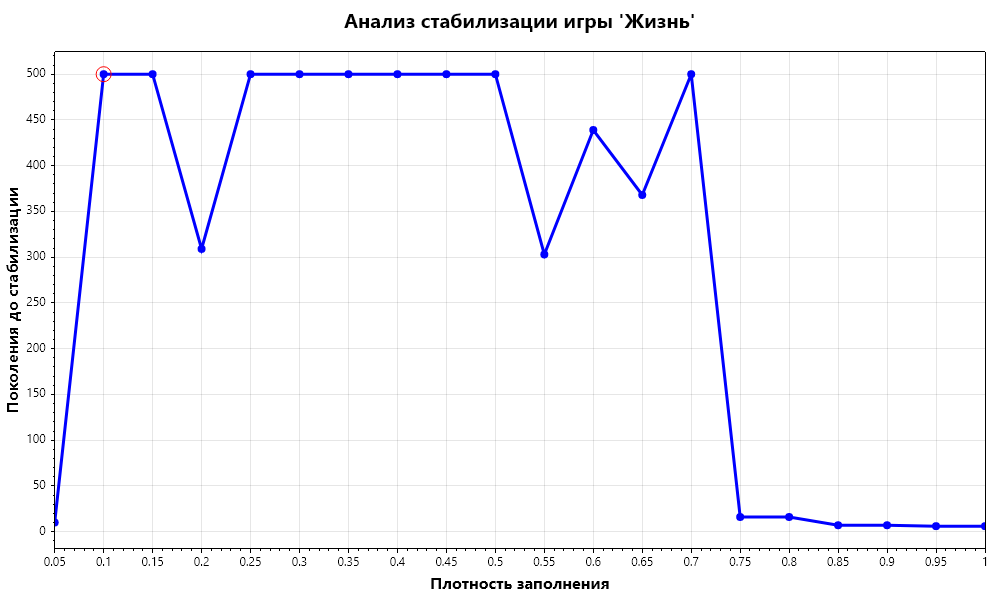
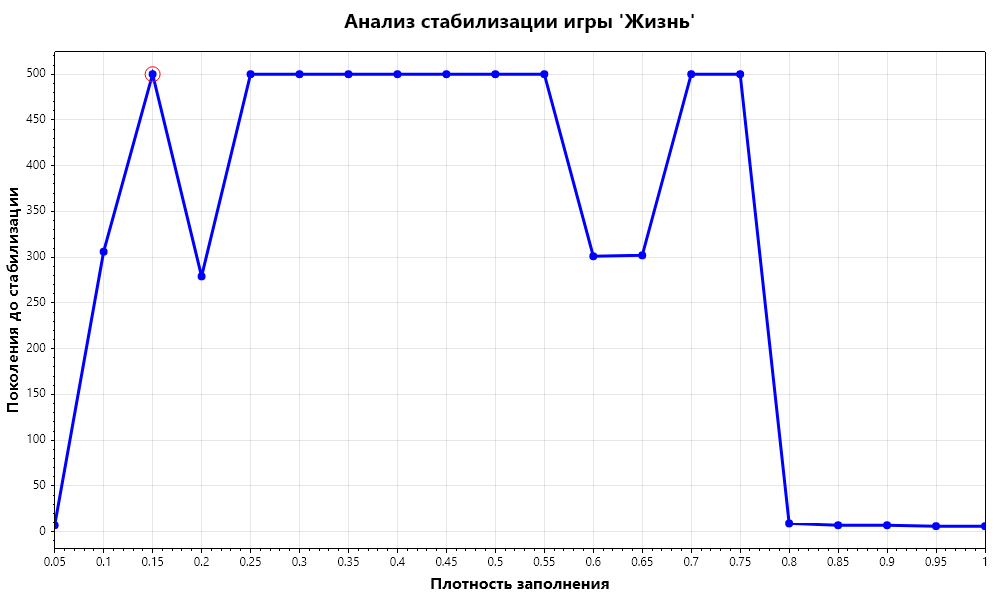
Save plot raw data

diff --git a/Life/Program.cs b/Life/Program.cs
@@ -161,7 +161,7 @@ namespace cli_life
 
     public static class Analysis
     {
-        public static void GenerateStabilizationData(string outputPath = "stabilization_data.csv",
+        public static void GenerateStabilizationData(string outputPath = "Life/data.txt",
                                                    string plotPath = "Life/plot.png")
         {
             var densities = Enumerable.Range(1, 20)
